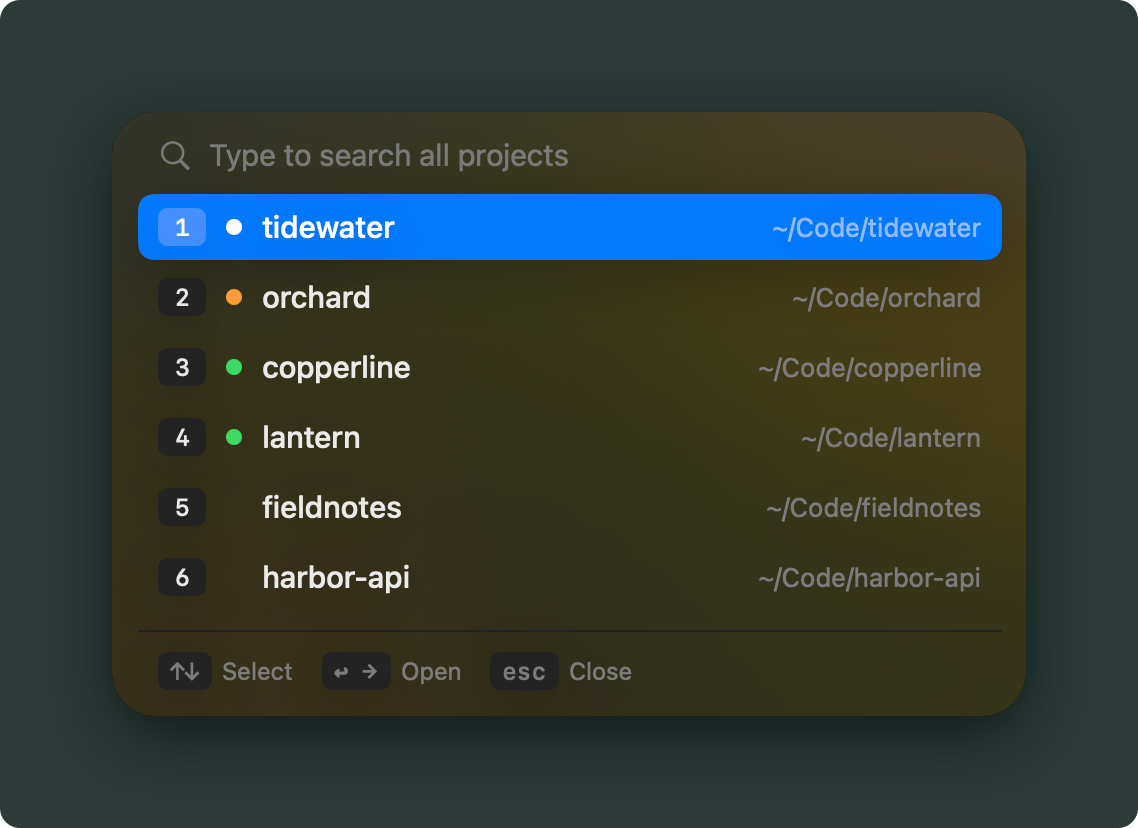
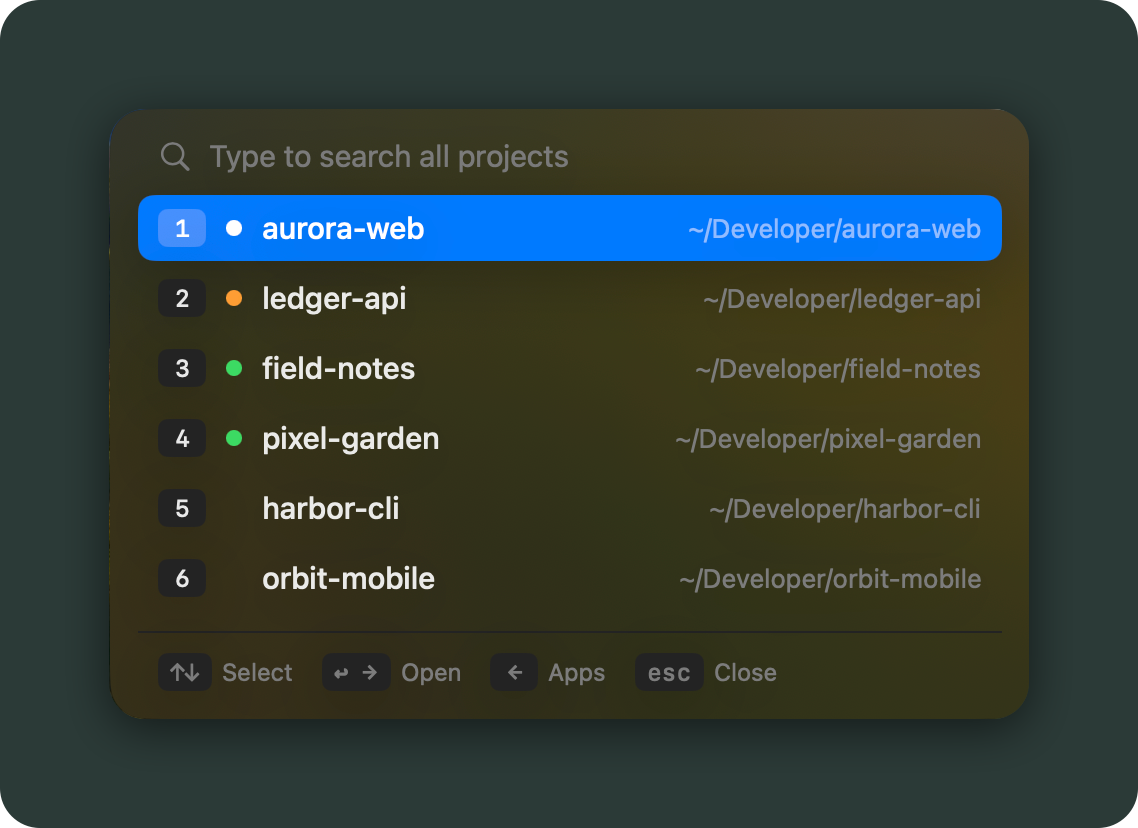
docs: show the welcome window and refresh the screenshots
The README shows the welcome window under Open it, and the menu,
launcher and settings screenshots show what is new since: Getting
Started… in the menu, the Apps hint in the launcher and the Browser
setting. They were made with make demo, on invented projects.

diff --git a/README.md b/README.md
@@ -10,7 +10,7 @@
   <img src="https://img.shields.io/badge/platform-macOS%2026-lightgrey" alt="Platform: macOS 26">
 </p>
 
-<p align="center"><img src="docs/images/menu.png" width="437" alt="The Plaincontrol menu, listing four Claude Code sessions: one needs permission, one has a question, one is working and one is idle."></p>
+<p align="center"><img src="docs/images/menu.png" width="386" alt="The Plaincontrol menu, listing four Claude Code sessions: one needs permission, one has a question, one is working and one is idle."></p>
 
 - **See every session** in the menu bar, with the ones waiting on you counted and listed first.
 - **Get a notification** when a session finishes or asks you something.
@@ -36,6 +36,8 @@ Or download [`Plaincontrol.dmg`](https://github.com/MartijnMul/plaincontrol/rele
 ### 2. Open it
 
 Open **Plaincontrol** from Applications or Spotlight. A welcome window walks you through the rest: allowing **Accessibility**, which the launcher needs, connecting Claude Code (step 3 below), adding the projects you already worked on with Claude Code, and opening Plaincontrol when you log in. After that it has no window and no Dock icon: it lives in the menu bar, at the top right of your screen, where Getting Started… opens the welcome window again.
+
+<p align="center"><img src="docs/images/welcome.png" width="448" alt="The welcome window, with four numbered steps: allow Accessibility, connect Claude Code with the two plugin commands, bring in your projects, and try the launcher; below them a switch to open Plaincontrol when you log in."></p>
 
 The first time you jump to a session, macOS asks whether Plaincontrol may control your terminal (iTerm2 or Terminal): allow that too.
 
@@ -84,7 +86,7 @@ So **4** then **5** starts Claude Code in the fourth project. Actions for apps y
 
 Settings… in the menu (Command-comma). Every setting shows whether it is at its default and can be reset. They are stored in `~/.config/plaincontrol/settings.yaml`, which you can also edit by hand, from Edit as Text… in Settings › Advanced, or keep in your dotfiles; the window keeps your comments, and a schema next to it gives completion in editors with the YAML language server.
 
-<p align="center"><img src="docs/images/settings.png" width="473" alt="The settings window's General tab: the key that opens the launcher, the terminal, the editor, the Claude Code command and the order of a project's actions, each marked Default."></p>
+<p align="center"><img src="docs/images/settings.png" width="431" alt="The settings window's General tab: the key that opens the launcher, the terminal, the editor, the browser, the Claude Code command and the order of a project's actions, each marked Default."></p>
 
 ## Privacy
 
